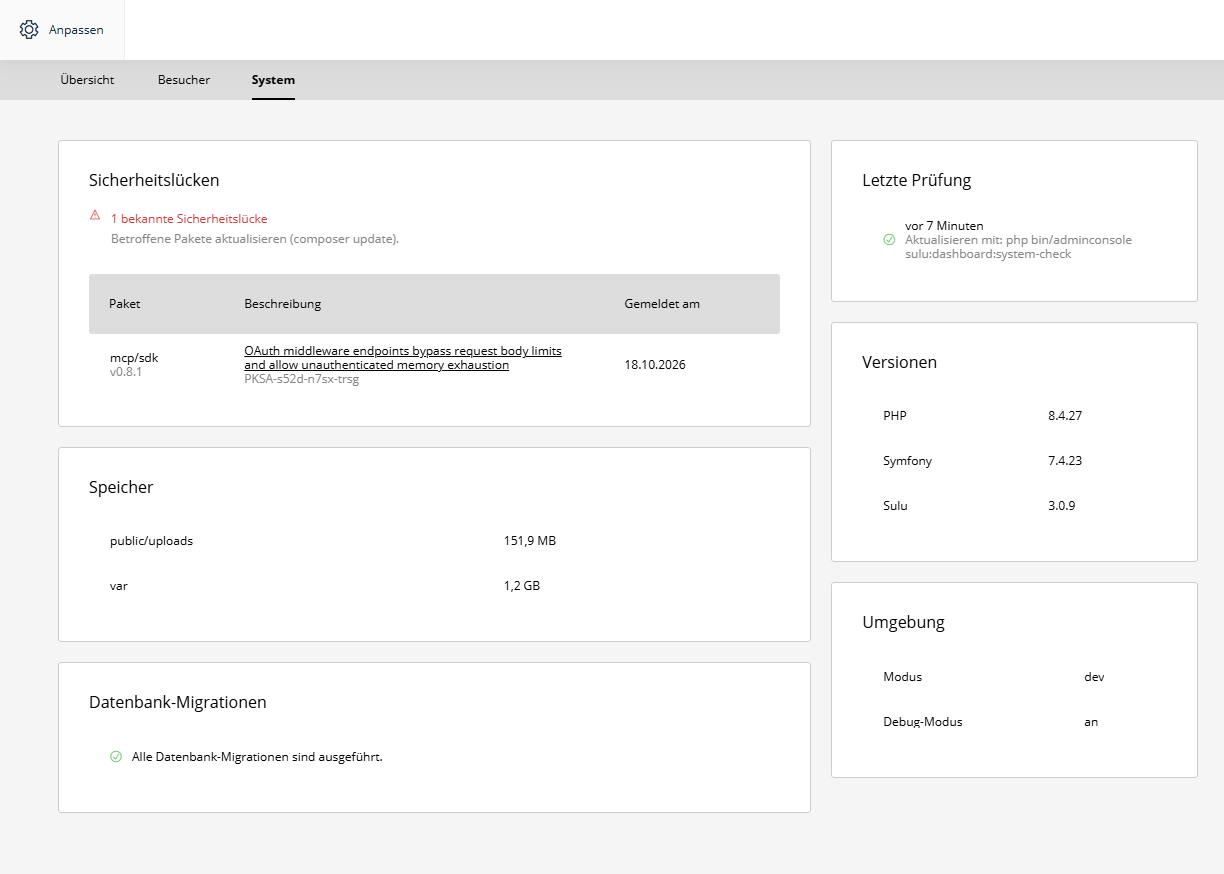
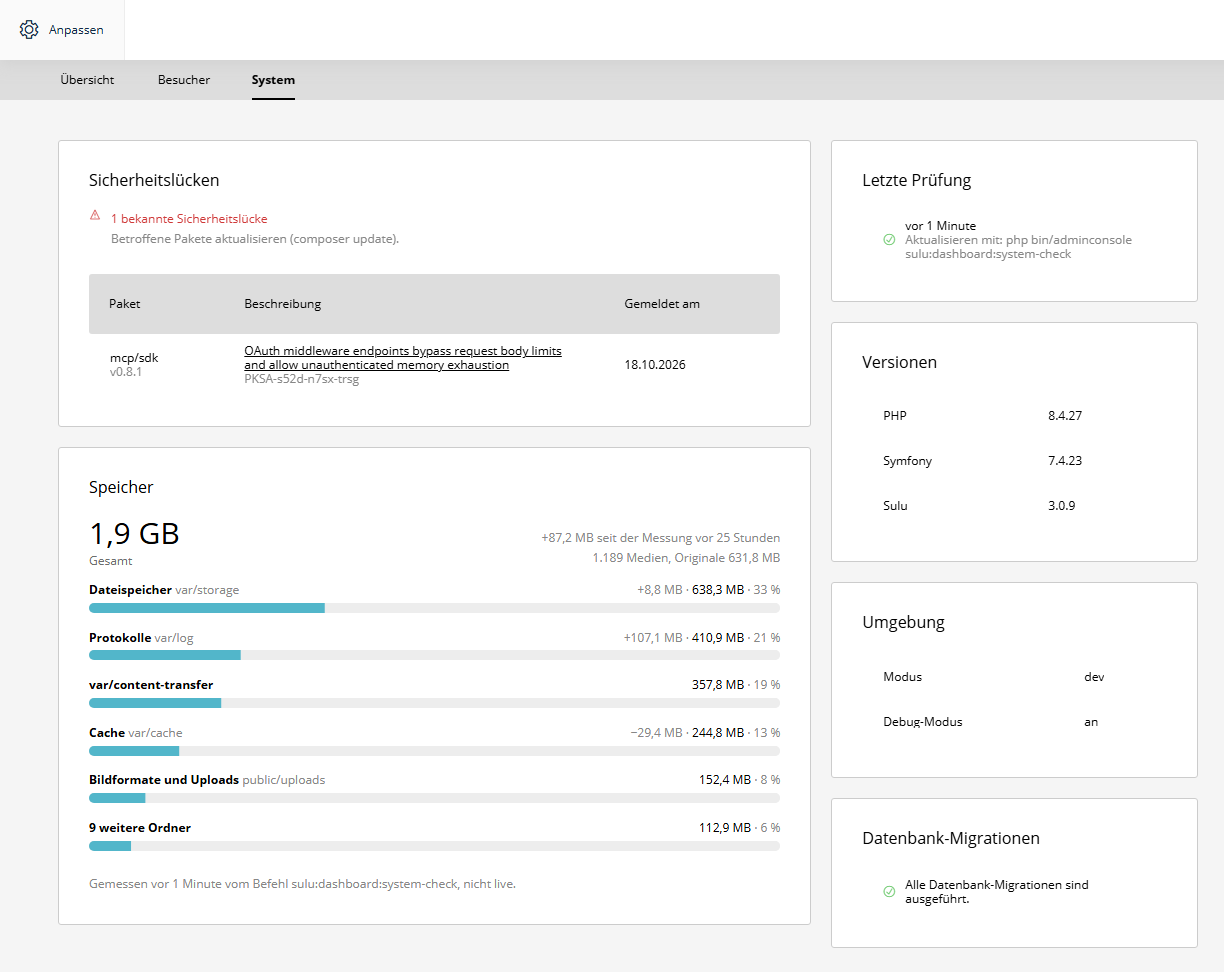
docs: screenshot of the tab System with the storage tile, changelog 1.4.0, branch alias 1.4.x-dev

diff --git a/CHANGELOG.md b/CHANGELOG.md
@@ -1,6 +1,6 @@
 # Changelog
 
-## Unreleased
+## 1.4.0 - 2026-11-19
 
 ### Added
 
